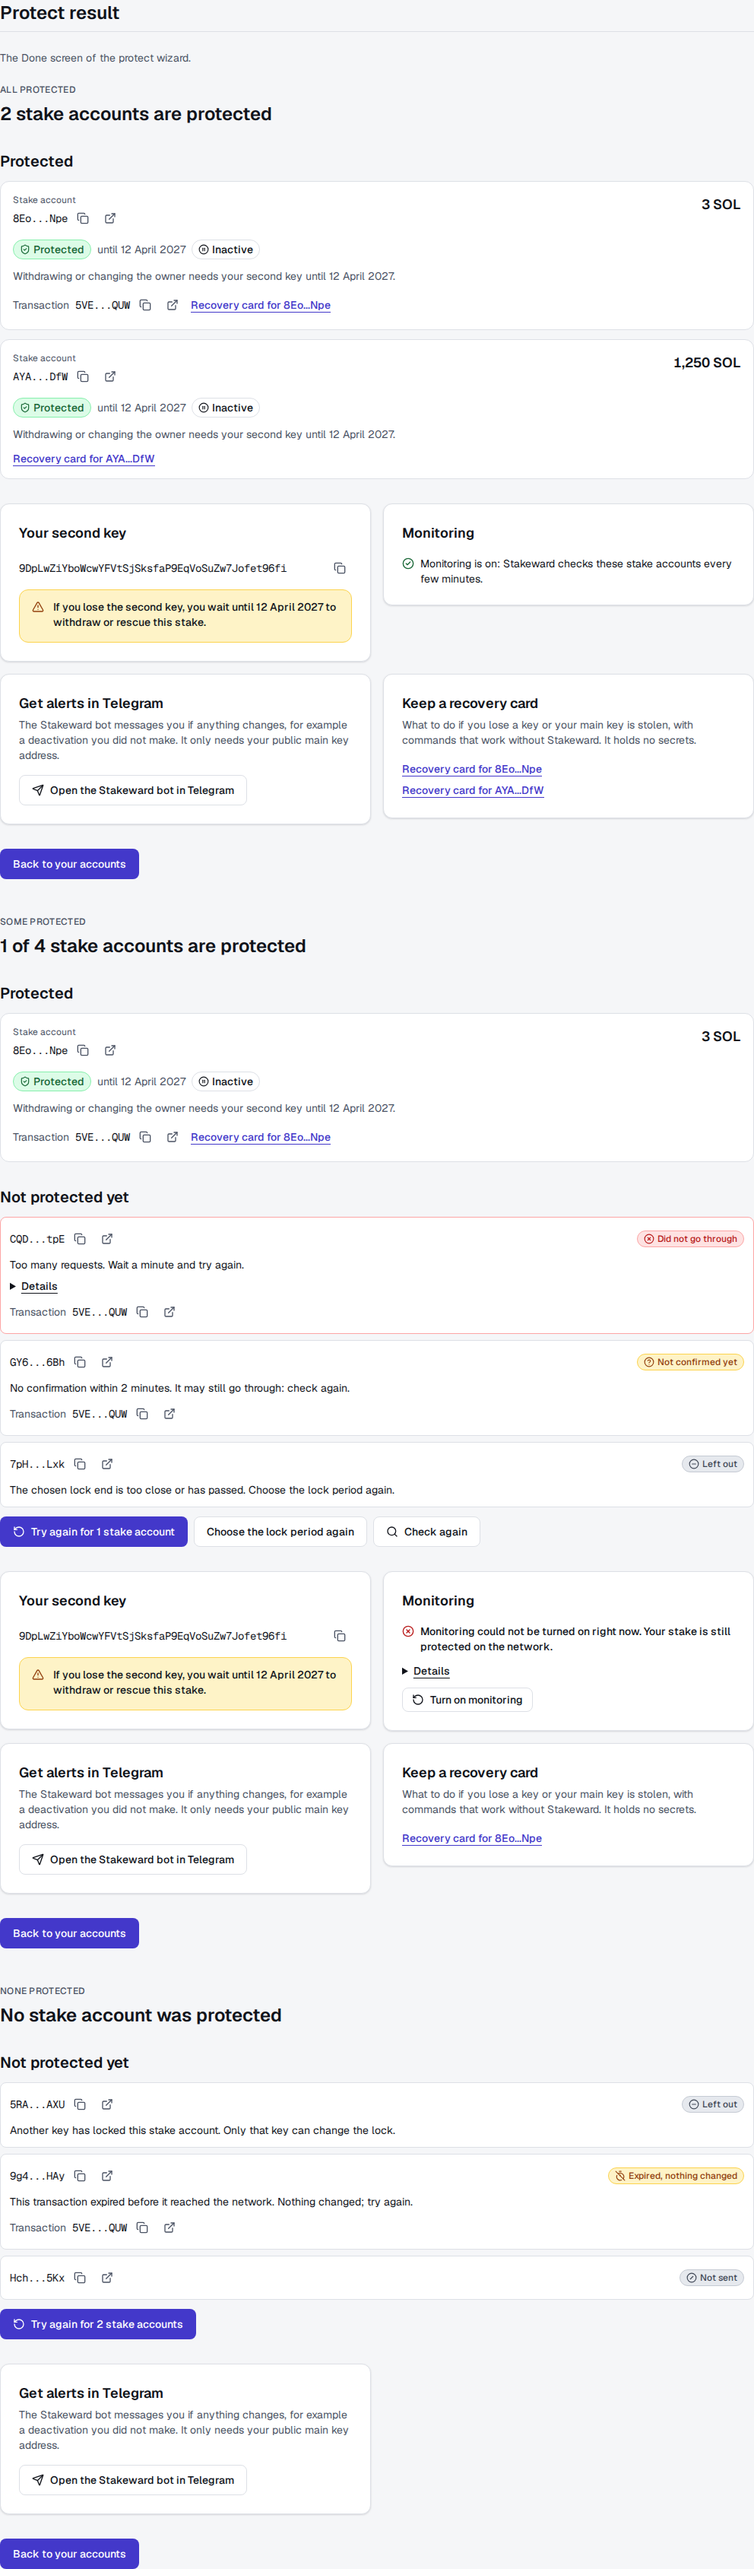
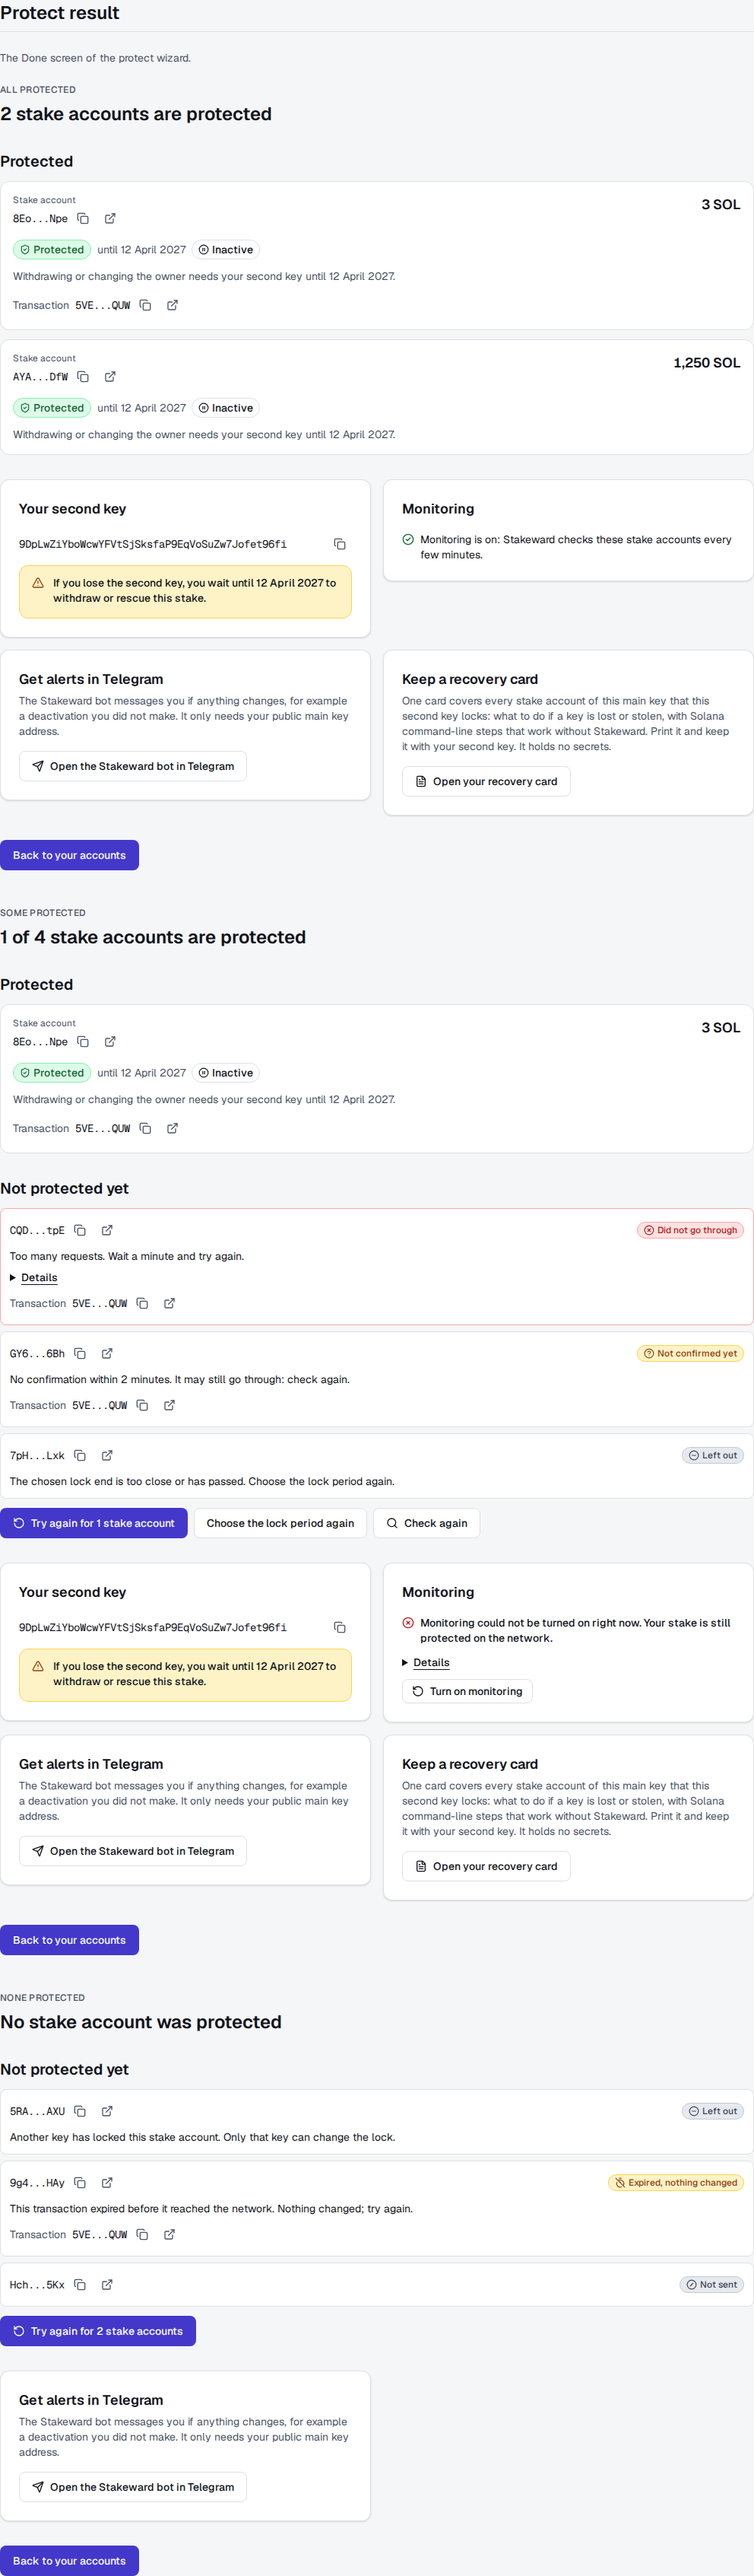
feat(web): recovery card links from /app and the Done screen
- appLinks.recovery; on /app, Protected and Expiring rows and the
  "You are the second key for" rows get an outline "Recovery card"
  link; a lock held by another key gets none (D35).
- The protect Done screen shows one "Open your recovery card" button
  to the first protected account: one card covers every account of
  the pair of keys. The per-account links and protect.done.recovery.link
  are gone; the card's text says what the card covers.
- Tests: app-page and protect DW1 updated; /app and /dev/ui screenshots.

diff --git a/apps/web/src/pages/protect/DoneStep.tsx b/apps/web/src/pages/protect/DoneStep.tsx
@@ -1,9 +1,10 @@
 import type { Address } from '@solana/kit';
-import { scannerStatus, shortAddress, stakeActivationStatus, type ClockView, type StakeAccount } from '@stakeward/core';
+import { scannerStatus, stakeActivationStatus, type ClockView, type StakeAccount } from '@stakeward/core';
 import {
   CircleAlertIcon,
   CircleCheckIcon,
   CircleXIcon,
+  FileTextIcon,
   LoaderCircleIcon,
   RotateCcwIcon,
   SearchIcon,
@@ -24,6 +25,7 @@ import type { WatchState } from '@/api/watch';
 import { t } from '@/i18n';
 import type { SigningTestOptions } from '@/signing/create';
 import { isLinkOpen, isRetryable, retryableOutcomes } from '@/pages/account/check';
+import { appLinks } from '@/pages/app/view';
 import type { JobView } from '@/signing/machine';
 import { NonceCloseCard } from '@/signing/NonceCloseCard';
 import { defaultJobReason, jobStatus } from '@/signing/view';
@@ -126,6 +128,7 @@ export function ProtectDoneView({
     const after = protectedAccountOf(job);
     return after === undefined ? [] : [{ job, after }];
   });
+  const [firstProtected] = protectedJobs;
   const others = outcomes.filter((job) => protectedAccountOf(job) === undefined);
   const total = outcomes.length;
   const done = protectedJobs.length;
@@ -223,15 +226,17 @@ export function ProtectDoneView({
             </Button>
           </div>
         </DoneCard>
-        {done === 0 ? null : (
+        {firstProtected === undefined ? null : (
+          // One card for the pair of keys covers every account they lock (DECISIONS.md D74).
           <DoneCard title={t('protect.done.recovery.title')} description={t('protect.done.recovery.body')}>
-            <ul className="flex flex-col gap-1">
-              {protectedJobs.map(({ job }) => (
-                <li key={job.id}>
-                  <RecoveryLink account={job.id as Address} />
-                </li>
-              ))}
-            </ul>
+            <div>
+              <Button asChild variant="outline" className="h-auto min-h-10 max-w-full whitespace-normal">
+                <Link href={appLinks.recovery(firstProtected.job.id as Address)}>
+                  <FileTextIcon aria-hidden="true" />
+                  {t('protect.done.recovery.open')}
+                </Link>
+              </Button>
+            </div>
           </DoneCard>
         )}
       </div>
@@ -275,23 +280,19 @@ function ProtectedRow({
   secondKey: Address | null;
 }) {
   const account = job.id as Address;
-  const links = (
-    <>
-      {job.signature === null ? null : (
-        <span className="flex flex-wrap items-center gap-x-2 text-sm">
-          <span className="text-muted">{t('protect.done.transaction')}</span>
-          <AddressText address={job.signature} kind="tx" />
-        </span>
-      )}
-      <RecoveryLink account={account} />
-    </>
-  );
+  const transaction =
+    job.signature === null ? undefined : (
+      <span className="flex flex-wrap items-center gap-x-2 text-sm">
+        <span className="text-muted">{t('protect.done.transaction')}</span>
+        <AddressText address={job.signature} kind="tx" />
+      </span>
+    );
   if (after === null) {
     // Applied on the chain but not readable as a stake account now: the outcome without the row.
     return (
       <div className="flex flex-col gap-2">
         <JobStatusList items={[{ address: account, status: 'done', signature: job.signature }]} label={t('protect.done.protectedList')} />
-        {links}
+        {transaction}
       </div>
     );
   }
@@ -302,19 +303,8 @@ function ProtectedRow({
       activation={stakeActivationStatus(after.delegation, clock.epoch)}
       protection={view.status}
       managedByService={view.managedByService}
-      actions={links}
+      actions={transaction}
     />
-  );
-}
-
-function RecoveryLink({ account }: { account: Address }) {
-  return (
-    <Link
-      href={`/recovery/${account}`}
-      className="rounded-sm text-sm font-medium text-primary underline underline-offset-4 hover:text-primary-hover"
-    >
-      {t('protect.done.recovery.link', { address: shortAddress(account) })}
-    </Link>
   );
 }
 

diff --git a/apps/web/src/pages/app/AccountsResults.tsx b/apps/web/src/pages/app/AccountsResults.tsx
@@ -1,6 +1,6 @@
 import type { Address } from '@solana/kit';
 import { formatSol, shortAddress } from '@stakeward/core';
-import { CalendarPlusIcon, LoaderCircleIcon, RefreshCwIcon, SendIcon, ShieldCheckIcon, ShieldXIcon } from 'lucide-react';
+import { CalendarPlusIcon, FileTextIcon, LoaderCircleIcon, RefreshCwIcon, SendIcon, ShieldCheckIcon, ShieldXIcon } from 'lucide-react';
 import { useEffect, useId, useMemo, useRef, useState, type ReactNode } from 'react';
 import { Link } from 'wouter';
 import { AccountRow, AccountRowSkeleton } from '@/components/product/account-row';
@@ -278,22 +278,40 @@ function ownedActions(row: AccountView): ReactNode {
             account={account}
           />
           <ActionLink href={appLinks.withdraw(account)} label={t('app.actions.withdraw')} variant="outline" account={account} />
+          <RecoveryCardLink account={account} />
         </>
       );
     case 'locked-by-other':
+      // Whose key holds this lock is not known here, so no card speaks for it (D35).
       return null;
   }
 }
 
-/** Second-key list: the second key can extend (or remove) the lock it holds. */
+/** Second-key list: the second key can extend (or remove) the lock it holds, and keep the card of that lock. */
 function secondKeyActions(row: AccountView): ReactNode {
   return (
+    <>
+      <ActionLink
+        href={appLinks.extend(row.account.address)}
+        label={t('app.actions.extend')}
+        icon={<CalendarPlusIcon aria-hidden="true" />}
+        variant={row.protection === 'expiring' ? 'primary' : 'outline'}
+        account={row.account.address}
+      />
+      <RecoveryCardLink account={row.account.address} />
+    </>
+  );
+}
+
+/** The printable recovery card of the keys that lock this account (DECISIONS.md D74). */
+function RecoveryCardLink({ account }: { account: Address }) {
+  return (
     <ActionLink
-      href={appLinks.extend(row.account.address)}
-      label={t('app.actions.extend')}
-      icon={<CalendarPlusIcon aria-hidden="true" />}
-      variant={row.protection === 'expiring' ? 'primary' : 'outline'}
-      account={row.account.address}
+      href={appLinks.recovery(account)}
+      label={t('app.actions.recovery')}
+      icon={<FileTextIcon aria-hidden="true" />}
+      variant="outline"
+      account={account}
     />
   );
 }

diff --git a/apps/web/test/app-page.test.tsx b/apps/web/test/app-page.test.tsx
@@ -155,6 +155,12 @@ describe('/app on LiteSvmChain', () => {
       'href',
       `/withdraw/${stake.locked}`,
     );
+    // The recovery card of the keys that lock it (D74): on protected and expiring rows, never on someone else's lock.
+    const recoveryLink = (account: Address) => within(row(account)).queryByRole('link', { name: `Recovery card stake account ${shortAddress(account)}` });
+    expect(recoveryLink(stake.locked)).toHaveAttribute('href', `/recovery/${stake.locked}`);
+    expect(recoveryLink(stake.expiring)).toHaveAttribute('href', `/recovery/${stake.expiring}`);
+    expect(recoveryLink(stake.foreign)).toBeNull();
+    expect(recoveryLink(stake.open)).toBeNull();
 
     // Less than 30 days left.
     expect(within(row(stake.expiring)).getByText('Expiring soon')).toBeInTheDocument();
@@ -177,6 +183,7 @@ describe('/app on LiteSvmChain', () => {
     const secondKeyRow = within(secondList).getByRole('article', { name: `Stake account ${shortAddress(stake.secondKeyFor)}` });
     expect(within(secondKeyRow).getByText('Protected')).toBeInTheDocument();
     expect(within(secondKeyRow).getByRole('link', { name: /^Extend/ })).toHaveAttribute('href', `/extend/${stake.secondKeyFor}`);
+    expect(within(secondKeyRow).getByRole('link', { name: /^Recovery card/ })).toHaveAttribute('href', `/recovery/${stake.secondKeyFor}`);
 
     // Totals of the main list: count, all SOL, SOL under a lock.
     const all = [stake.open, stake.locked, stake.expiring, stake.foreign, stake.service].map(lamportsOf);

diff --git a/apps/web/test/protect.test.tsx b/apps/web/test/protect.test.tsx
@@ -216,11 +216,11 @@ describe('/protect: protect stake accounts with a second key (F1)', () => {
       expect(telegram).toHaveAttribute('rel', 'noopener noreferrer');
       expect(telegram).toHaveAccessibleName('Open the Stakeward bot in Telegram (opens in a new tab)');
 
-      for (const account of [S1, S2]) {
-        const links = screen.getAllByRole('link', { name: `Recovery card for ${shortAddress(account)}` });
-        expect(links.length).toBeGreaterThan(0);
-        for (const link of links) expect(link).toHaveAttribute('href', `/recovery/${account}`);
-      }
+      // One recovery card covers both accounts of this pair of keys (D74): one link, to the first protected account.
+      const recovery = screen.getAllByRole('link', { name: 'Open your recovery card' });
+      expect(recovery).toHaveLength(1);
+      expect(recovery[0]).toHaveAttribute('href', `/recovery/${S1}`);
+      expect(screen.queryAllByRole('link', { name: /Recovery card for/ })).toEqual([]);
       expect(screen.getByRole('link', { name: 'Back to your accounts' })).toHaveAttribute('href', `/app?address=${w.A.address}`);
     },
     TIMEOUT,

diff --git a/apps/web/src/pages/app/view.ts b/apps/web/src/pages/app/view.ts
@@ -130,4 +130,6 @@ export const appLinks = {
   extend: (account: Address) => `/extend/${account}`,
   withdraw: (account: Address) => `/withdraw/${account}`,
   rescue: (mainKey: Address) => `/rescue?${new URLSearchParams({ address: mainKey }).toString()}`,
+  /** The recovery card of the pair of keys that locks this account (DECISIONS.md D74). */
+  recovery: (account: Address) => `/recovery/${account}`,
 };

diff --git a/apps/web/src/pages/app/view.test.ts b/apps/web/src/pages/app/view.test.ts
@@ -112,5 +112,6 @@ describe('appLinks', () => {
     expect(appLinks.extend(locked.address)).toBe(`/extend/${locked.address}`);
     expect(appLinks.withdraw(locked.address)).toBe(`/withdraw/${locked.address}`);
     expect(appLinks.rescue(A)).toBe(`/rescue?address=${A}`);
+    expect(appLinks.recovery(locked.address)).toBe(`/recovery/${locked.address}`);
   });
 });
